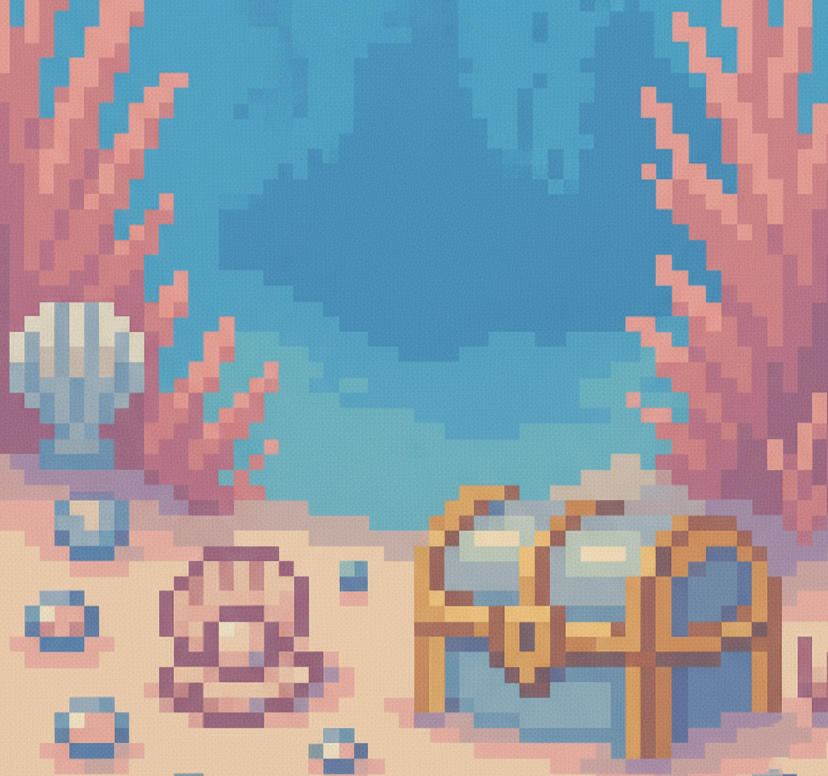
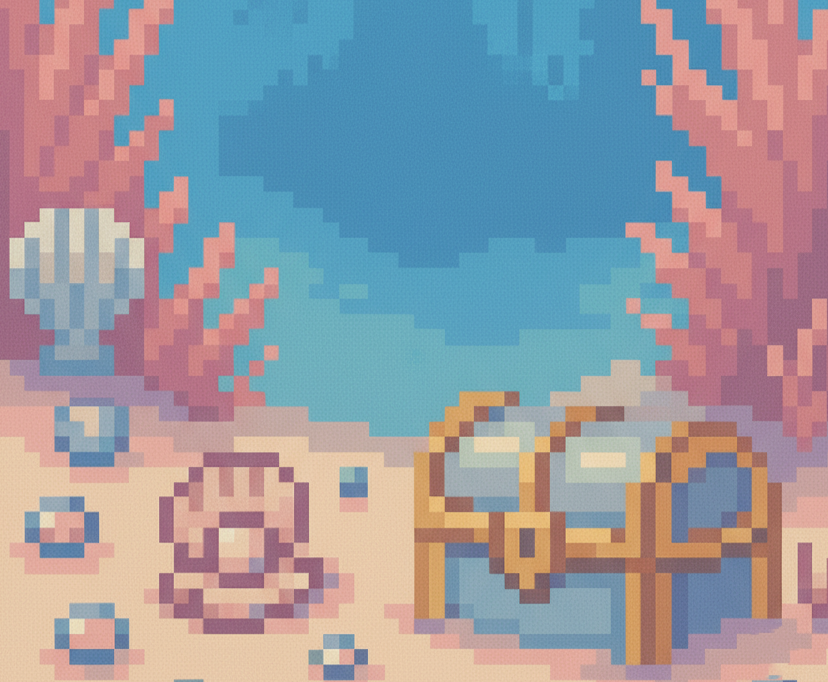
[feat] add reroll to shoppage

diff --git a/src/components/ShopPage/RerollItem.tsx b/src/components/ShopPage/RerollItem.tsx
@@ -1,0 +1,46 @@
+import React from "react";
+import RerollCard from "./RerollCard";
+
+const RerollItem: React.FC = () => {
+  return (
+    <div className="relative aspect-[757/673] w-full overflow-hidden rounded-xl">
+      {/* 배경 */}
+      <img
+        src="/images/shop/group73.svg"
+        alt="background"
+        className="absolute inset-0 z-0 h-full w-full object-cover"
+      />
+
+      {/* 내용 */}
+      <div className="relative z-10 mt-5 mr-2 flex h-full flex-col items-center justify-center">
+        {/* 선반 - 윗줄 */}
+        <img
+          src="/images/shop/group105.svg"
+          alt="shelf-top"
+          className="absolute top-[29%] left-1/2 h-auto w-[85%] -translate-x-1/2"
+        />
+        {/* 선반 - 아랫줄 */}
+        <img
+          src="/images/shop/group105.svg"
+          alt="shelf-bottom"
+          className="absolute top-[73%] left-1/2 h-auto w-[85%] -translate-x-1/2"
+        />
+
+        {/* 어항: 윗줄 */}
+        <div className="absolute top-[-1%] left-1/2 flex h-65 w-[20%] -translate-x-1/2 items-center justify-center gap-9">
+          <RerollCard quantity="1" price={100} />
+          <RerollCard quantity="2" price={200} />
+          <RerollCard quantity="5" price={500} />
+        </div>
+        {/* 어항: 아랫줄 */}
+        <div className="absolute top-[43%] left-1/2 flex h-65 w-[20%] -translate-x-1/2 items-center justify-center gap-9">
+          <RerollCard quantity="10" price={1000} />
+          <RerollCard quantity="20" price={2000} />
+          <RerollCard quantity="30" price={3000} />
+        </div>
+      </div>
+    </div>
+  );
+};
+
+export default RerollItem;

diff --git a/src/pages/ShopPage.tsx b/src/pages/ShopPage.tsx
@@ -1,9 +1,12 @@
-import React from "react";
+import React, { useState } from "react";
 import { Header, Footer } from "../components";
 import { ShopItem } from "../components/ShopPage";
+import RerollItem from "../components/ShopPage/RerollItem";
 import LogoText from "@/components/LogoText";
 
 const ShopPage: React.FC = () => {
+  const [showReroll, setShowReroll] = useState(false);
+
   return (
     <div className="relative min-h-screen overflow-x-hidden bg-[#E3F6FF]">
       {/* 헤더 고정 */}
@@ -12,42 +15,56 @@ const ShopPage: React.FC = () => {
       </div>
       {/* 배경 이미지 */}
       <img
-        src="/images/shop/background2.png"
+        src="/images/shop/background3.png"
         alt="background"
         className="absolute top-0 left-0 z-0 h-full w-full object-cover"
       />
       {/* 메인 컨텐츠 */}
-      <main className="relative z-10 mx-auto mt-20 max-w-7xl px-8 pt-32 pb-20">
+      <main className="relative z-10 mx-auto mt-20 max-w-7xl px-8 pt-18 pb-20">
         <div className="flex w-full flex-col items-center justify-center gap-40 md:flex-row">
           {/* 왼쪽: 타이틀 + 유저 정보 */}
           <div className="flex flex-col items-center justify-center md:w-1/3">
             <LogoText
               text="Shop"
-              className="font-sixtyfour text-shadow mb-10 text-center text-7xl text-[#C18A8A] md:mb-0 md:ml-8"
+              className="font-sixtyfour text-shadow mb-10 text-center text-6xl text-[#C18A8A] md:mb-0"
             />
             <div className="mt-6 flex h-13 items-center justify-center rounded-xl bg-white px-2 py-2 shadow hover:bg-gray-100">
-              <img src="/images/shop/starfish.png" alt="star" className="mr-2 h-12 w-12" />
-              <span className="font-vt323 text-4xl text-gray-800">1000</span>
+              <img src="/images/shop/starfish.png" alt="star" className="mr-2 h-10 w-10" />
+              <span className="font-vt323 text-3xl text-gray-800">1000</span>
             </div>
-            <img src="/images/shop/tankwithfish.png" alt="character" className="mt-24 w-100" />
+            <img src="/images/shop/tankwithfish.png" alt="character" className="mt-16 w-80" />
           </div>
           {/* 오른쪽: 상점 아이템 */}
-          <div className="flex flex-col items-center justify-center md:w-2/3">
+          <div className="flex flex-col items-center justify-center md:w-[50%]">
             {/* 상단 버튼 */}
-            <div className="mb-6 flex w-full justify-start gap-4">
-              <button className="font-vt323 rounded-full bg-white px-6 py-3 text-xl text-black shadow">
+            <div className="mb-3 flex w-full justify-start gap-4">
+              <button
+                onClick={() => setShowReroll(false)}
+                className={
+                  showReroll
+                    ? "font-vt323 rounded-full bg-[#CDE6EF] px-6 py-3 text-xl text-black shadow hover:bg-[#E3CFCF]"
+                    : "font-vt323 rounded-full bg-white px-6 py-3 text-xl text-black shadow"
+                }
+              >
                 Background
               </button>
-              <button className="font-vt323 rounded-full bg-[#CDE6EF] px-6 py-3 text-xl text-black shadow hover:bg-[#E3CFCF]">
+              {/* <button className="font-vt323 rounded-full bg-[#CDE6EF] px-6 py-3 text-xl text-black shadow hover:bg-[#E3CFCF]">
                 Items
-              </button>
-              <button className="font-vt323 rounded-full bg-[#CDE6EF] px-6 py-3 text-xl text-black shadow hover:bg-[#E3CFCF]">
+              </button> */}
+              <button
+                onClick={() => setShowReroll(true)}
+                className={
+                  showReroll
+                    ? "font-vt323 rounded-full bg-white px-6 py-3 text-xl text-black shadow"
+                    : "font-vt323 rounded-full bg-[#CDE6EF] px-6 py-3 text-xl text-black shadow hover:bg-[#E3CFCF]"
+                }
+              >
                 Re-roll
               </button>
             </div>
             {/* 아이템 리스트 */}
             <div className="flex w-full justify-center gap-8">
-              <ShopItem />
+              {showReroll ? <RerollItem /> : <ShopItem />}
             </div>
           </div>
         </div>

diff --git a/src/components/ShopPage/RerollCard.tsx b/src/components/ShopPage/RerollCard.tsx
@@ -1,0 +1,28 @@
+import React from "react";
+import PriceBar from "./PriceBar";
+
+interface RerollCardProps {
+  quantity: string;
+  price: number;
+}
+
+const RerollCard: React.FC<RerollCardProps> = ({ quantity, price }) => {
+  return (
+    <div className="flex flex-col items-center justify-between">
+      <div className="flex flex-row items-start">
+        <img
+          src="/images/shop/reroll.png"
+          alt="tank-top-left"
+          className="h-auto w-[80%] object-contain"
+        />
+        <div className="font-vt323 mt-7 -ml-8 flex flex-row items-center gap-[1px] text-[26px] text-black">
+          <p>X</p>
+          <p>{quantity}</p>
+        </div>
+      </div>
+      <PriceBar price={price} />
+    </div>
+  );
+};
+
+export default RerollCard;

diff --git a/src/components/ShopPage/PriceBar.tsx b/src/components/ShopPage/PriceBar.tsx
@@ -6,13 +6,13 @@ interface PriceBarProps {
 
 const PriceBar: React.FC<PriceBarProps> = ({ price }) => {
   return (
-    <div className="flex items-center gap-4">
-      <div className="flex h-11 min-w-[40px] items-center justify-center rounded-xl bg-white px-2 py-2 shadow hover:bg-gray-100">
-        <img src="/images/shop/arrow-right.png" alt="apply" className="mx-1 h-5 w-4" />
+    <div className="flex items-center gap-2">
+      <div className="flex h-9 min-w-[40px] items-center justify-center rounded-xl bg-white px-1 py-2 shadow hover:bg-gray-100">
+        <img src="/images/shop/arrow-right.png" alt="apply" className="mx-1 h-4 w-3" />
       </div>
-      <div className="flex h-11 w-[95px] items-center justify-center rounded-xl bg-white px-4 py-2 shadow hover:bg-gray-100">
-        <img src="/images/shop/starfish.png" alt="star" className="mr-2 h-10 w-10" />
-        <span className="font-vt323 text-3xl text-gray-800">{price}</span>
+      <div className="flex h-9 w-[90px] items-center justify-center rounded-xl bg-white px-4 py-2 shadow hover:bg-gray-100">
+        <img src="/images/shop/starfish.png" alt="star" className="mr-1 h-8 w-8" />
+        <span className="font-vt323 text-2xl text-gray-800">{price}</span>
       </div>
     </div>
   );

diff --git a/src/components/ShopPage/ShopItem.tsx b/src/components/ShopPage/ShopItem.tsx
@@ -27,7 +27,7 @@ const ShopItem: React.FC = () => {
         />
 
         {/* 어항: 윗줄 */}
-        <div className="absolute top-[6%] left-[9%] flex h-57 w-[34%] flex-col items-center justify-between">
+        <div className="absolute top-[6%] left-[9%] flex h-50 w-[34%] flex-col items-center justify-between">
           <img
             src="/images/shop/group76.svg"
             alt="tank-top-left"
@@ -35,7 +35,7 @@ const ShopItem: React.FC = () => {
           />
           <PriceBar price={200} />
         </div>
-        <div className="absolute top-[6%] right-[9%] flex h-57 w-[34%] flex-col items-center justify-between">
+        <div className="absolute top-[6%] right-[9%] flex h-50 w-[34%] flex-col items-center justify-between">
           <img
             src="/images/shop/group77.svg"
             alt="tank-top-right"
@@ -44,7 +44,7 @@ const ShopItem: React.FC = () => {
           <PriceBar price={300} />
         </div>
         {/* 어항: 아랫줄 */}
-        <div className="absolute top-[50%] left-[9%] flex h-57 w-[34%] flex-col items-center justify-between">
+        <div className="absolute top-[50%] left-[9%] flex h-50 w-[34%] flex-col items-center justify-between">
           <img
             src="/images/shop/group78.svg"
             alt="tank-bottom-left"
@@ -52,7 +52,7 @@ const ShopItem: React.FC = () => {
           />
           <PriceBar price={400} />
         </div>
-        <div className="absolute top-[50%] right-[9%] flex h-57 w-[34%] flex-col items-center justify-between">
+        <div className="absolute top-[50%] right-[9%] flex h-50 w-[34%] flex-col items-center justify-between">
           <img
             src="/images/shop/emptytank.png"
             alt="tank-bottom-right"